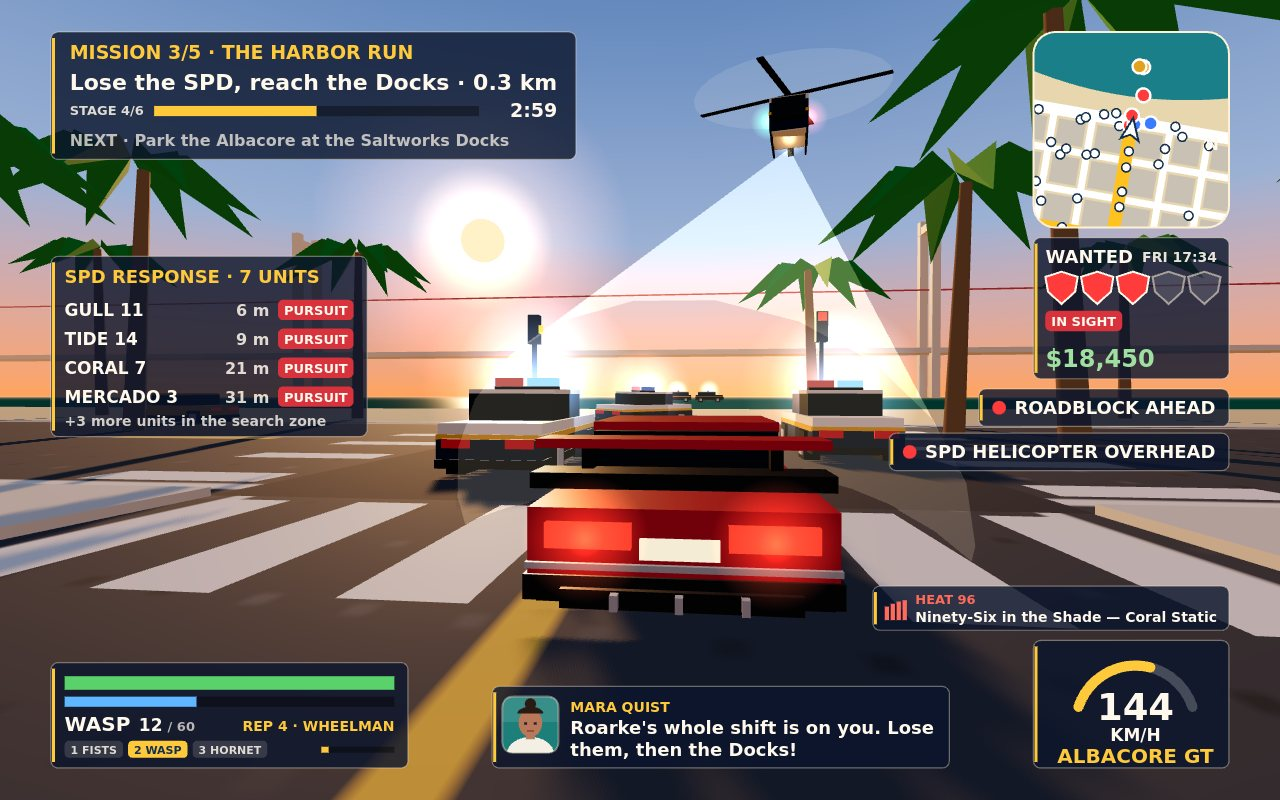
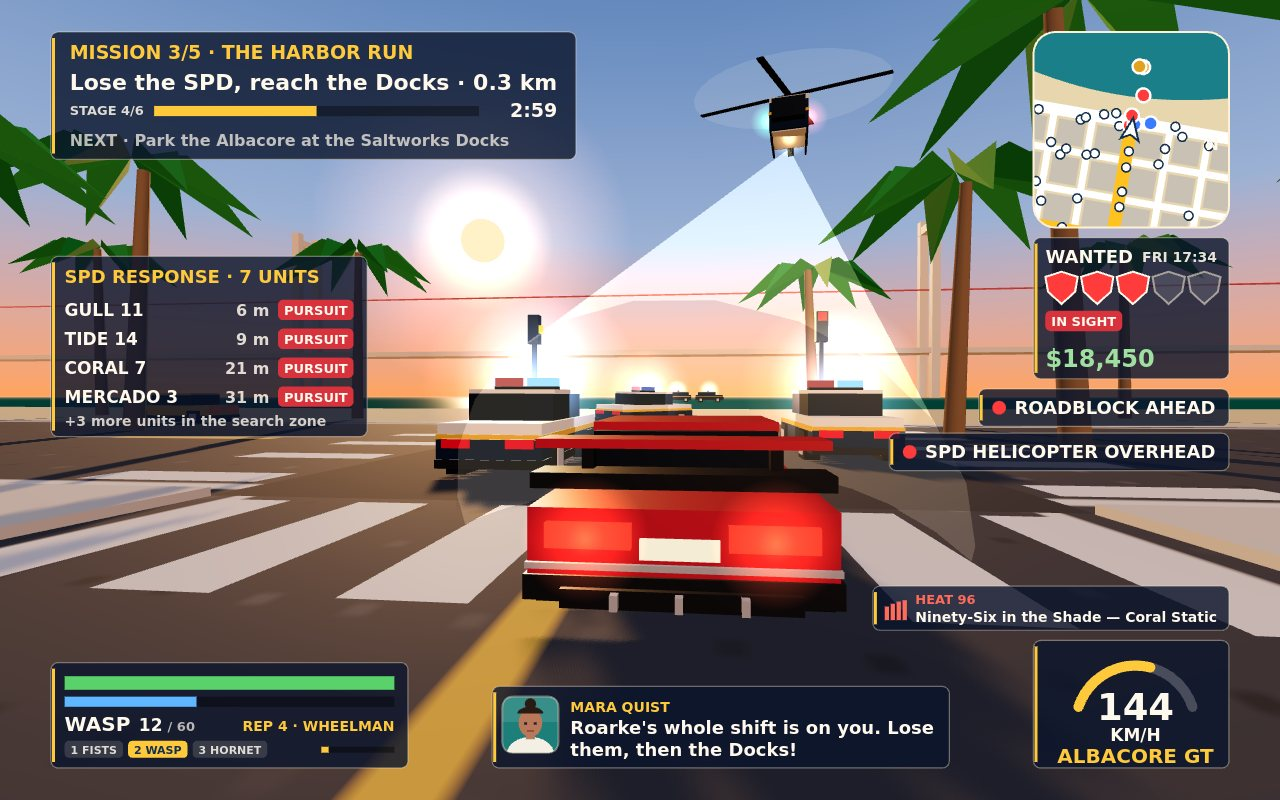
M6 cover light: a warm shadowless bounce light (0xffc49a, 0.9) from opposite the low sun, so the Albacore's rear reads red instead of near-black in the chase toward the sun; A/B kept it; cover 173.3 KiB

diff --git a/game/src/world/sunlight-and-sea.js b/game/src/world/sunlight-and-sea.js
@@ -27,6 +27,12 @@ export function createSunSoakedLighting(game) {
   sun.shadow.normalBias = 0.6;
   scene.add(sun, sun.target);
 
+  // Warm bounce from the bright street behind a viewer facing the sun (no shadows): faces turned
+  // away from the low sun, like a car's rear in a chase toward it, keep their paint colour.
+  const bounce = new THREE.DirectionalLight(0xffc49a, 0.9);
+  bounce.position.set(-sunDir.x * 100, 30, -sunDir.z * 100);
+  scene.add(bounce);
+
   // Sky dome: deep blue overhead to warm peach at the horizon, plus a sun disc.
   const skyGeo = new THREE.SphereGeometry(450, 24, 12);
   const colors = [];
